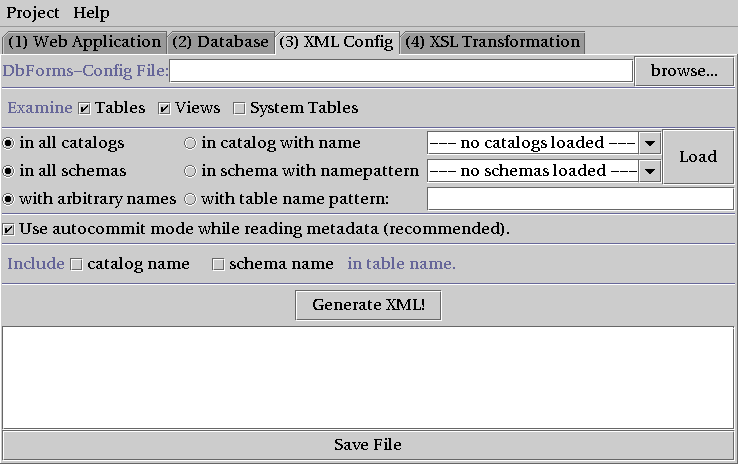
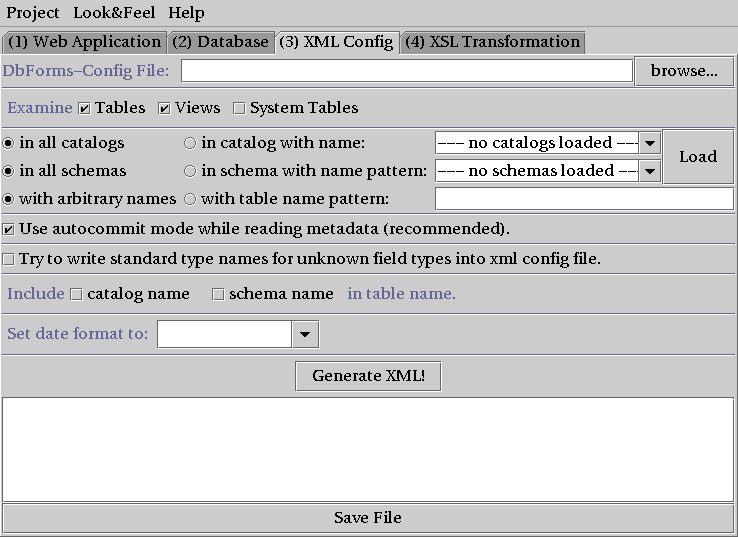
Updated online documentation for DevGui

Changed region(s): [[0.0, 0.0, 1.0, 0.7543], [0.0, 0.9052, 0.9973, 0.9957]]

diff --git a/dbforms/doc/html/devgui.html b/dbforms/doc/html/devgui.html
@@ -27,7 +27,7 @@ can be found at</p>
 <h3>Web Application Tab</h3>
 
 <div align="center">
-<img src="devgui1.png" width="369" height="232"  >
+<a href="devgui1.png"><img src="devgui1.png" width="369" height="232"  ></a>
 </div>
 
 <ul>
@@ -37,7 +37,7 @@ can be found at</p>
 <h3>Database Tab</h3>
 
 <div align="center">
-<img src="devgui2.png" width="369" height="232"  >
+<a href="devgui2.png"><img src="devgui2.png" width="369" height="232"  ></a>
 </div>
 
 
@@ -79,7 +79,7 @@ can be found at</p>
 <h3>XML Config Tab</h3>
 
 <div align="center">
-<img src="devgui3.png" width="369" height="232"  >
+<a href="devgui3.png"><img src="devgui3.png" width="369" height="232"  ></a>
 
 </div>
 
@@ -132,9 +132,20 @@ can be found at</p>
        about patterns above.
 <p><li> <strong>Use autocommit mode: </strong> Should normally be checked, was 
        inserted as a workaround for a bug of a special driver.
+<p><li> <strong>Write standard type names for unknown field types:</strong> 
+       If not checked, DevGui will write the names for column types
+       exactly as it gets them from the database. Sometimes this may lead
+       to problems, if the DBMS uses a type that could be handled by dbforms
+       but is has an unknown specific name. E.g. there are a lot of different
+       names for various 'integer' types. If this option is checked, DevGui
+       will try to write standard name for all unknown types into the
+       generated dbforms config file.
 <p><li> <strong>Include catalog or table name: </strong> If checked, DevGui 
       tries to include catalog and/or schema name in generated
       xml file like 'admin.table1' instead of just 'table1'.
+<p><li> <strong>Set date format to:  </strong>Here you may select or enter
+      a date pattern that then will be set as default date format within
+      dbforms config file using tag date-format. 
 <p><li> <strong>Generate XML button: </strong>DevGui tries to read database meta data
       and generated a dbforms config in XML format. Result is shown
       in editor pane.
@@ -145,18 +156,32 @@ can be found at</p>
 <h3>XSL Transformation</h3>
 
 <div align="center">
-<img src="devgui4.png" width="369" height="232"  >
+<a href="devgui4.png"><img src="devgui4.png" width="369" height="232"  ></a>
 
 </div>
-
-<ul><li>
-This tab can be used to automatically generate 
+This tab can be used to automatically generate
 Java Server Pages that use DbForms taglib by applying
 XSL stylesheets to dbforms config file. To do that,
 you must have generated (or loaded) a dbforms config file,
 then you mark the name of a style sheet and
-select button 'start transformation'. 
-<p><li>Generated pages are written to the web application directory.
+select button 'start transformation'.
+
+<ul>
+<li> <strong>Use JavaScript Calendar: </strong> If checked, the generated 
+   pages will include a JavaScript calendar written by Robert W. Husted for editing of
+   date fields. Calendar is included in dbforms with friendly permission of author.
+   See
+<a href="http://developer.iplanet.com/viewsource/husted_calendar/husted_calendar.html">http://developer.iplanet.com/viewsource/husted_calendar/husted_calendar.html</a>
+for more information about this tool. The calendar
+is now developed as open source project 'jscal' with
+homepage at <a href="http://jscal.sourceforge.net/">http://jscal.sourceforge.net/</a>.
+<p>
+Unfortunately this calendar
+   only seems to work with Internet Explorer, so by default this option
+   is not checked. 
+</ul>
+
+Generated pages are written to the web application directory.
 </ul>
 
 </body>
